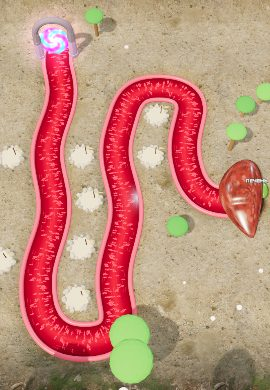
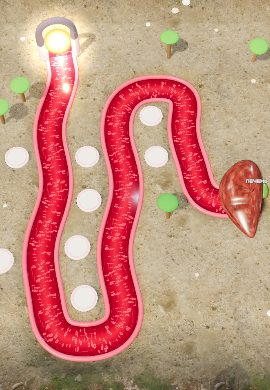
Карта: островки с органами и сосуд, системы органов; мягкие фоновые звуки; постаменты без флажков; ровный свет портала

diff --git a/index.html b/index.html
@@ -218,7 +218,7 @@ body {
 .tog input:checked + i { background: var(--blood); }
 .tog input:checked + i::after { transform: translateX(20px); }
 .tog input:focus-visible + i { outline: 2px solid var(--gold); outline-offset: 2px; }
-#mapScreen { padding: 0; display: flex; flex-direction: column; place-items: stretch; background: #e6cf9f; -webkit-backdrop-filter: none; backdrop-filter: none; overflow: hidden; }
+#mapScreen { padding: 0; display: flex; flex-direction: column; place-items: stretch; background: #14061a; -webkit-backdrop-filter: none; backdrop-filter: none; overflow: hidden; }
 #mapScreen[hidden] { display: none; }
 .maptop { display: flex; align-items: center; gap: 10px; padding: 10px 12px; background: linear-gradient(#3a2414, #2a180c); color: #fff3d8; box-shadow: 0 4px 14px #0006; z-index: 2; }
 .maptop b { font: 700 16px var(--display); flex: 1; }
@@ -229,11 +229,13 @@ body {
 .mnode .pulse { animation: mpulse 1.6s ease-out infinite; transform-origin: center; transform-box: fill-box; }
 @keyframes mpulse { 0% { opacity: .9; transform: scale(1); } 100% { opacity: 0; transform: scale(1.7); } }
 .mnode .bob { animation: mbob 1s ease-in-out infinite alternate; }
+.flow { animation: mflow 1.2s linear infinite; }
+@keyframes mflow { to { stroke-dashoffset: -18; } }
 @keyframes mbob { to { transform: translateY(-6px); } }
 #levelPop { position: absolute; left: 10px; right: 10px; bottom: calc(10px + env(safe-area-inset-bottom, 0px)); background: #fff8ea; color: #3a2414; border-radius: 18px; padding: 16px; box-shadow: 0 16px 50px #0008; display: flex; flex-direction: column; gap: 10px; border: 3px solid #8a5a2e; }
 #levelPop[hidden] { display: none; }
 #levelPop h2 { margin: 0; font: 900 22px var(--display); color: #3a2414; }
-#levelPop .reg { font: 700 20px 'Caveat', cursive; color: #8a5a2e; }
+#levelPop .reg { font: 600 14px var(--body); color: #8a5a2e; }
 #levelPop p { margin: 0; color: #6a4a2e; font-size: 13.5px; }
 #levelPop .st { font-size: 26px; letter-spacing: 4px; color: #f2a81d; }
 #levelPop .st .off { color: #d8c8a8; }
@@ -350,7 +352,7 @@ body {
       </div>
       <button class="btn big" data-look="menu">Фон и звуки</button>
       <button class="btn" data-go="howto">Как играть</button>
-      <p class="ver">Версия 0.11 · прототип</p>
+      <p class="ver">Версия 0.12 · прототип</p>
     </div>
   </div>
 
@@ -837,8 +839,14 @@ const AU = {
       if (this.ambId !== id) return;
       const s = this.ctx.createBufferSource(), g = this.ctx.createGain();
       s.buffer = buf; s.loop = true; s.loopStart = .06; s.loopEnd = buf.duration - .02;
-      g.gain.value = 0; g.gain.setTargetAtTime(1, this.ctx.currentTime, .4);
-      s.connect(g); g.connect(this.ambBus()); s.start(0, .06);
+      g.gain.value = 0;
+      // приглушаем верхние частоты и громкость: звук должен быть мягким, не резать слух
+      const soft = this.ctx.createBiquadFilter(), shelf = this.ctx.createBiquadFilter();
+      soft.type = 'lowpass'; soft.frequency.value = ({ rain: 1700, forest: 2200, river: 1100, wind: 700, birds: 3200, sea: 900, crickets: 4200, cave: 2000, under: 600, bubbles: 1500 })[id] || 1500; soft.Q.value = .5;
+      shelf.type = 'highshelf'; shelf.frequency.value = 800; shelf.gain.value = -6;
+      const vol = ({ rain: .7, forest: .8, river: .6, wind: .65, birds: .55, sea: .7, crickets: .35, cave: .6, under: .8, bubbles: .5 })[id] || .6;
+      g.gain.setTargetAtTime(vol, this.ctx.currentTime, 1.2);
+      s.connect(soft); soft.connect(shelf); shelf.connect(g); g.connect(this.ambBus()); s.start(0, .06);
       this.ambSrc = { s, g };
     };
     if (this.ambBufs[id]) return start(this.ambBufs[id]);
@@ -1192,7 +1200,7 @@ function applyTheme(i, rebuild = true) {
   hemi.color.set(TH.hemi[0]); hemi.groundColor.set(TH.hemi[1]); hemi.intensity = TH.hemi[2];
   sun.color.set(TH.sun[0]); sun.intensity = TH.sun[1]; rim.color.set(TH.rim[0]); rim.intensity = TH.rim[1];
   warm.color.set(TH.rim[0]); warm.intensity = TH.lava ? .8 : .15; renderer.toneMappingExposure = TH.exp;
-  padMat.color.set(TH.soil || '#8a6a4a'); padRimMat.color.set(TH.rim2); padRimMat.emissive.set(TH.rim2);
+  padMat.color.set('#ece6de').lerp(new T.Color(TH.soil || '#8a6a4a'), .25); padRimMat.color.set(TH.rim2); padRimMat.emissive.set(TH.rim2);
   drift.forEach((m, k) => { m.material.color.set(TH.motes[k % TH.motes.length]); m.visible = k < 44 * (TH.moteA > .4 ? 1 : .5); });
   // заранее подгружаем текстуры этой темы
   tex(TH.floor); tex(TH.floor, true); tex(TH.hills);
@@ -1253,44 +1261,48 @@ const portal = new T.Group();
 {
   // Ворота из камня с аркой, внутри — светящаяся закрученная мембрана; микробы выходят из неё
   const stone = new T.MeshStandardMaterial({ color: '#8a7a8a', roughness: .7, flatShading: true });
-  const trim = new T.MeshStandardMaterial({ color: '#c8a0ff', emissive: '#8a4aff', emissiveIntensity: .9, roughness: .3 });
+  const trim = new T.MeshStandardMaterial({ color: '#ffe8b8', emissive: '#ffb050', emissiveIntensity: .8, roughness: .3 });
   const pill = (z) => { const m = new T.Mesh(new T.CylinderGeometry(.11, .14, 1.05, 8), stone); m.position.set(0, .52, z); m.castShadow = true; portal.add(m);
     const cap = new T.Mesh(new T.CylinderGeometry(.16, .16, .08, 8), stone); cap.position.set(0, .06, z); portal.add(cap); };
   pill(-.52); pill(.52);
   const arch = new T.Mesh(new T.TorusGeometry(.52, .1, 10, 32, Math.PI), stone); arch.rotation.y = Math.PI / 2; arch.position.y = 1.05; arch.castShadow = true; portal.add(arch);
   const band = new T.Mesh(new T.TorusGeometry(.43, .025, 8, 40, Math.PI), trim); band.rotation.y = Math.PI / 2; band.position.y = 1.05; portal.add(band);
   for (const z of [-.43, .43]) { const b = new T.Mesh(new T.CylinderGeometry(.025, .025, .98, 6), trim); b.position.set(0, .56, z); portal.add(b); }
+  // проём: ровный яркий свет — белый в глубине, тёплый к краям, без вращения и пульса
   const mat = new T.ShaderMaterial({
-    uniforms: { t: { value: 0 }, c1: { value: new T.Color('#ff4ad8') }, c2: { value: new T.Color('#5ad8ff') } },
+    uniforms: { c1: { value: new T.Color('#fff6e0') }, c2: { value: new T.Color('#ffb070') } },
     vertexShader: 'varying vec2 vU; void main(){ vU = uv; gl_Position = projectionMatrix * modelViewMatrix * vec4(position,1.); }',
-    fragmentShader: `uniform float t; uniform vec3 c1; uniform vec3 c2; varying vec2 vU;
-      void main(){ vec2 p = (vU - .5) * 2.; float r = length(p); float a = atan(p.y, p.x);
-        float sw = sin(a * 3. + r * 9. - t * 3.5) * .5 + .5; float sw2 = sin(a * 5. - r * 14. + t * 2.) * .5 + .5;
-        vec3 col = mix(c1, c2, sw) + vec3(1.) * pow(1. - r, 3.) * .9 + sw2 * .15;
-        float al = smoothstep(1., .8, r) * (.75 + .25 * sw) + smoothstep(.95, .85, r) * smoothstep(.75, .9, r) * .6;
-        gl_FragColor = vec4(col * 1.25, al); }`,
-    transparent: true, depthWrite: false, side: T.DoubleSide
+    fragmentShader: `uniform vec3 c1; uniform vec3 c2; varying vec2 vU;
+      void main(){ vec2 p = (vU - .5) * 2.; float r = length(p);
+        vec3 col = mix(c1 * 1.6, c2, smoothstep(0., .95, r));
+        float al = smoothstep(1., .82, r);
+        gl_FragColor = vec4(col, al); }`,
+    transparent: true, depthWrite: false, side: T.DoubleSide, toneMapped: false
   });
   const door = new T.Mesh(new T.CircleGeometry(.47, 48), mat); door.scale.y = 1.35; door.position.y = .66; door.rotation.y = Math.PI / 2; portal.add(door);
-  const glow = new T.Sprite(new T.SpriteMaterial({ map: glowTex, color: '#c86aff', blending: T.AdditiveBlending, depthWrite: false, opacity: .55 }));
-  glow.scale.set(2.4, 2.4, 1); glow.position.y = .7; portal.add(glow);
-  const motes = [];
-  for (let i = 0; i < 10; i++) { const m = new T.Sprite(new T.SpriteMaterial({ map: glowTex, color: i % 2 ? '#ff9af0' : '#9fefff', blending: T.AdditiveBlending, depthWrite: false })); m.scale.setScalar(.12); portal.add(m); motes.push(m); }
-  portal.userData = { glow, mat, motes };
+  const glow = new T.Sprite(new T.SpriteMaterial({ map: glowTex, color: '#ffd8a0', blending: T.AdditiveBlending, depthWrite: false, opacity: .7 }));
+  glow.scale.set(2.6, 2.6, 1); glow.position.set(.15, .7, 0); portal.add(glow);
+  // луч света падает из ворот вперёд, на сосуд
+  const beamTex = canvasTex(64, 256, (g, w, h) => { const gr = g.createLinearGradient(0, 0, 0, h); gr.addColorStop(0, 'rgba(255,240,210,.9)'); gr.addColorStop(1, 'rgba(255,200,140,0)'); g.fillStyle = gr; g.fillRect(0, 0, w, h); const sg = g.createLinearGradient(0, 0, w, 0); sg.addColorStop(0, 'rgba(0,0,0,1)'); sg.addColorStop(.5, 'rgba(0,0,0,0)'); sg.addColorStop(1, 'rgba(0,0,0,1)'); g.globalCompositeOperation = 'destination-out'; g.fillStyle = sg; g.fillRect(0, 0, w, h); });
+  beamTex.encoding = T.LinearEncoding;
+  const beam = new T.Mesh(new T.PlaneGeometry(1.1, 2.6), new T.MeshBasicMaterial({ map: beamTex, transparent: true, depthWrite: false, blending: T.AdditiveBlending, opacity: .55, toneMapped: false }));
+  beam.rotation.x = -Math.PI / 2; beam.rotation.z = Math.PI / 2; beam.position.set(1.35, .03, 0); portal.add(beam);
+  const lamp = new T.PointLight('#ffd8a8', 1.4, 4.5, 2); lamp.position.set(.5, .8, 0); portal.add(lamp);
+  portal.userData = { glow, mat };
   scene.add(portal);
 }
 const organ = new T.Group();
 organ.rotation.y = Math.PI / 2; scene.add(organ);
 // Уровни-органы. theme — фон уровня, diff — во сколько раз крепче микробы
 const LEVELS = [
-  { id: 'liver', organ: 'Печень', region: 'Печёночный лес', theme: 1, diff: 1 },
-  { id: 'lungs', organ: 'Лёгкие', region: 'Лёгочные снега', theme: 3, diff: 1.25 },
-  { id: 'heart', organ: 'Сердце', region: 'Сердечный каньон', theme: 4, diff: 1.55 },
-  { id: 'kidney', organ: 'Почки', region: 'Почечный берег', theme: 8, diff: 1.9 },
-  { id: 'stomach', organ: 'Желудок', region: 'Желудочная пустыня', theme: 9, diff: 2.3 },
-  { id: 'spleen', organ: 'Селезёнка', region: 'Селезёночная мостовая', theme: 5, diff: 2.8 },
-  { id: 'eye', organ: 'Глаз', region: 'Глазной дворец', theme: 6, diff: 3.4 },
-  { id: 'brain', organ: 'Мозг', region: 'Мозговой вулкан', theme: 7, diff: 4.2 }
+  { id: 'liver', organ: 'Печень', region: 'Пищеварительная система', theme: 1, diff: 1 },
+  { id: 'lungs', organ: 'Лёгкие', region: 'Дыхательная система', theme: 3, diff: 1.25 },
+  { id: 'heart', organ: 'Сердце', region: 'Сердечно-сосудистая система', theme: 4, diff: 1.55 },
+  { id: 'kidney', organ: 'Почки', region: 'Мочевыделительная система', theme: 8, diff: 1.9 },
+  { id: 'stomach', organ: 'Желудок', region: 'Пищеварительная система', theme: 9, diff: 2.3 },
+  { id: 'spleen', organ: 'Селезёнка', region: 'Иммунная система', theme: 5, diff: 2.8 },
+  { id: 'eye', organ: 'Глаз', region: 'Органы чувств', theme: 6, diff: 3.4 },
+  { id: 'brain', organ: 'Мозг', region: 'Нервная система', theme: 7, diff: 4.2 }
 ];
 function organTex(base, spots) {
   return canvasTex(512, 512, (g, W, H) => {
@@ -1357,14 +1369,14 @@ function setOrgan(lv) {
 setOrgan(LEVELS[0]);
 function CYL_HI() { return new T.CylinderGeometry(1, 1, 1, 16); }
 
-const padGeo = new T.CylinderGeometry(.4, .42, .06, 32);
+const padGeo = new T.LatheGeometry([[0, 0], [.44, 0], [.46, .03], [.45, .07], [.41, .1], [.34, .1], [.31, .075], [0, .075]].map(([x, y]) => new T.Vector2(x, y)), 48);   // невысокий постамент с чашей
 const stoneGeo = new T.DodecahedronGeometry(1, 0), stoneMat = new T.MeshStandardMaterial({ roughness: .85, flatShading: true });
 const poleGeo = new T.CylinderGeometry(.015, .015, .56, 6), poleMat = new T.MeshStandardMaterial({ color: '#6a4a2e', roughness: .8 });
 const flagGeo = (() => { const g = new T.BufferGeometry(); g.setAttribute('position', new T.Float32BufferAttribute([0, .1, 0, 0, -.1, 0, .24, 0, 0], 3)); g.computeVertexNormals(); return g; })();
 const padMat = new T.MeshPhysicalMaterial({ color: '#e2a6b6', roughness: .32, metalness: 0, clearcoat: 1, clearcoatRoughness: .2, emissive: '#3a0a18', emissiveIntensity: .35 });
-const padRimGeo = new T.TorusGeometry(.4, .035, 8, 40);
+const padRimGeo = new T.TorusGeometry(.375, .022, 8, 48);
 const padRimMat = new T.MeshStandardMaterial({ color: '#bff6ff', emissive: '#5ad8ff', emissiveIntensity: .6, roughness: .3 });
-const ringGeo = new T.RingGeometry(.4, .52, 40);
+const ringGeo = new T.RingGeometry(.47, .56, 48);
 
 function updateBackdrop() {
   const b = TER.box, c = b.getCenter(new T.Vector3()), sz = b.getSize(new T.Vector3());
@@ -1484,25 +1496,14 @@ function buildBoard(L) {
     if (Math.hypot(cd.x - P0.x, cd.z - P0.z) < 1.8) continue;
     if (chosen.every(o => Math.hypot(o.x - cd.x, o.z - cd.z) >= 1.5)) chosen.push(cd);
   }
-  const stones = new T.InstancedMesh(stoneGeo, stoneMat, chosen.length * 11), dm = new T.Object3D(), sc2 = new T.Color();
   chosen.forEach((cd, i) => {
     const cp = new T.Vector3(cd.x, 0, cd.z);
-    const m = new T.Mesh(padGeo, padMat); m.position.set(cp.x, .03, cp.z); m.receiveShadow = true; board.add(m);
-    for (let k = 0; k < 11; k++) {
-      const a = k / 11 * Math.PI * 2 + hash2(i, k) * .3, r = .42;
-      dm.position.set(cp.x + Math.cos(a) * r, .06, cp.z + Math.sin(a) * r); dm.rotation.set(hash2(k, i) * 3, a, hash2(i + 3, k) * 3);
-      const s = .07 + hash2(i * 7, k) * .04; dm.scale.set(s * 1.3, s, s); dm.updateMatrix(); stones.setMatrixAt(i * 11 + k, dm.matrix);
-      stones.setColorAt(i * 11 + k, sc2.set(TH.stone || '#b8aa9a').multiplyScalar(.8 + hash2(k, i * 5) * .35));
-    }
-    const flag = new T.Group();
-    const pole = new T.Mesh(poleGeo, poleMat); pole.position.y = .28; flag.add(pole);
-    const cloth = new T.Mesh(flagGeo, new T.MeshStandardMaterial({ color: TH.rim2, side: T.DoubleSide, roughness: .6 })); cloth.position.set(.12, .48, 0); flag.add(cloth);
-    flag.position.set(cp.x + .18, 0, cp.z - .1); flag.castShadow = true; board.add(flag);
+    const m = new T.Mesh(padGeo, padMat); m.position.set(cp.x, 0, cp.z); m.receiveShadow = true; m.castShadow = true; board.add(m);
+    const rim = new T.Mesh(padRimGeo, padRimMat); rim.rotation.x = Math.PI / 2; rim.position.set(cp.x, .1, cp.z); board.add(rim);
     const hl = new T.Mesh(ringGeo, new T.MeshBasicMaterial({ color: '#7be0b0', transparent: true, opacity: 0, depthWrite: false }));
-    hl.rotation.x = -Math.PI / 2; hl.position.set(cp.x, .1, cp.z); board.add(hl);
-    pads.set('p' + i, { pos: cp, mesh: m, hl, flag, unit: null });
+    hl.rotation.x = -Math.PI / 2; hl.position.set(cp.x, .12, cp.z); board.add(hl);
+    pads.set('p' + i, { pos: cp, mesh: m, hl, unit: null });
   });
-  stones.castShadow = true; stones.receiveShadow = true; board.add(stones);
   buildTerrain();
 }
 const stageAspect = () => Math.max(.3, stage.clientWidth / Math.max(1, stage.clientHeight));
@@ -1966,9 +1967,6 @@ function update(dt) {
   const now = performance.now() / 1000;
   bloodTex.offset.y -= dt * .45;
   animateBackdrop(dt, now);
-  portal.userData.glow.material.opacity = .45 + Math.sin(now * 3) * .15;
-  portal.userData.mat.uniforms.t.value = now;
-  portal.userData.motes.forEach((m, i) => { const a = now * 1.6 + i / 10 * Math.PI * 2; m.position.set(Math.sin(a * .7) * .12, .66 + Math.sin(a) * .62, Math.cos(a) * .52); });
   organ.scale.setScalar(1 + Math.sin(now * 2.2) * .015);
   organ.userData.mat.emissiveIntensity = Math.max(1, organ.userData.mat.emissiveIntensity - dt * 6);
 
@@ -2408,8 +2406,9 @@ const store = {
   get(k, d) { try { return Object.assign({}, d, JSON.parse(localStorage.getItem(k)) || {}); } catch (e) { return Object.assign({}, d); } },
   set(k, v) { try { localStorage.setItem(k, JSON.stringify(v)); } catch (e) {} }
 };
-const SET = store.get('immuneSettings', { sound: true, vol: 80, vibro: true, dmg: true, quality: 'high', theme: 0, amb: 'off', ambVol: 50, sfx: 'real' });
+const SET = store.get('immuneSettings', { sound: true, vol: 80, vibro: true, dmg: true, quality: 'high', theme: 0, amb: 'off', ambVol: 35, sfx: 'real' });
 if ((SET.ver || 0) < 8) { SET.theme = -1; SET.ver = 8; }
+if ((SET.ver || 0) < 9) { SET.ambVol = Math.min(SET.ambVol, 35); SET.ver = 9; }
 if ((SET.ver || 0) < 7) { SET.sfx = 'real'; SET.theme = 0; SET.amb = ({ surf: 'sea', brook: 'river', storm: 'rain', fire: 'off' })[SET.amb] || SET.amb; SET.ver = 7; }
 const PROF = store.get('immuneProfile', { name: 'Игрок', avatar: 'neu', games: 0, kills: 0, wins: 0, liverStars: 0, lv: {} });
 PROF.lv ||= {}; if (PROF.liverStars && !PROF.lv.liver) PROF.lv.liver = PROF.liverStars;
@@ -2532,75 +2531,85 @@ $('lookDone').onclick = () => { AU.play('ui'); closeLook(); };
 document.addEventListener('click', (e) => { const b = e.target.closest('[data-look]'); if (b) openLook(b.dataset.look); });
 
 /* ---------- Карта организма: выбор уровня ---------- */
-const ORGAN_ICON = {
-  liver: '<path d="M2.5 10c3-4.5 11-5.5 18-3 1.2.5 1.4 1.8.6 2.7C18 13 13 17 7 17c-3.3 0-5.3-3-4.5-7z" fill="#fff"/>',
-  lungs: '<path d="M12 2.5v7" stroke="#fff" stroke-width="2.2" stroke-linecap="round"/><path d="M10.5 9c-1.5-1.8-4.5-2.4-6.3.6-2 3.3-2 8.4.3 10.4 2 1.4 5.5.5 6-2.6zM13.5 9c1.5-1.8 4.5-2.4 6.3.6 2 3.3 2 8.4-.3 10.4-2 1.4-5.5.5-6-2.6z" fill="#fff"/>',
-  heart: '<path d="M12 21s-8-5-8-11a4.4 4.4 0 0 1 8-2.6A4.4 4.4 0 0 1 20 10c0 6-8 11-8 11z" fill="#fff"/>',
-  kidney: '<path d="M14.5 3.5c4.5.8 7 6.2 4.6 11.6-2.2 5-7.4 6.1-9.6 3.4-1.5-1.9.8-3.6-.2-5.6-1-1.8-4.2-2.6-3.6-5.6.7-3.3 4.6-4.4 8.8-3.8z" fill="#fff"/>',
-  stomach: '<path d="M9 2.5v4.5c0 2.5-3.5 4-3.5 8.5 0 4.2 3.2 6.5 7.2 6.5 4.3 0 7.3-3 7.3-7 0-3.8-3.2-5.6-6-4.6-2.4.9-2.6 3.2-2.6 3.2" fill="none" stroke="#fff" stroke-width="3.2" stroke-linecap="round"/>',
-  spleen: '<path d="M6.5 19c-2.6-5.3.6-12.6 7-14.8 3.1-1 6.4-.3 6.4 1.9-4.2 1.1-7.3 5.4-7.3 9.6 0 3 2 4.3 1 5.4-2.3 1.4-5.9 1-7.1-2.1z" fill="#fff"/>',
-  eye: '<path d="M1.5 12s4-7 10.5-7 10.5 7 10.5 7-4 7-10.5 7S1.5 12 1.5 12z" fill="#fff"/><circle cx="12" cy="12" r="3.6" fill="#3a7ad8"/><circle cx="12" cy="12" r="1.6" fill="#0a0a12"/>',
-  brain: '<path d="M8.3 4.2A3.3 3.3 0 0 0 4.7 7.6 3.3 3.3 0 0 0 3.6 13a3.3 3.3 0 0 0 3.2 4.4 3.3 3.3 0 0 0 5.2 1.4 3.3 3.3 0 0 0 5.2-1.4 3.3 3.3 0 0 0 3.2-4.4 3.3 3.3 0 0 0-1.1-5.4 3.3 3.3 0 0 0-3.6-3.4 3.3 3.3 0 0 0-4.7 0 3.3 3.3 0 0 0-4.7 0z" fill="#fff"/><path d="M12 4.5v14" stroke="#e8a0a8" stroke-width="1.6"/>'
+// Рисунки органов в плоском стиле с объёмом (viewBox 100×100)
+const ORGAN_ART = {
+  liver: `<path d="M8 54c3-19 27-31 54-29 15 1 28 6 30 15 1 7-4 11-11 15-15 9-32 19-51 19C15 74 6 66 8 54z" fill="#8e3324"/>
+    <path d="M46 29c15-2 31 0 41 7 3 2 3 7-1 10-11 8-25 13-38 13" fill="#b4513d"/><path d="M14 47c8-8 21-13 34-13" stroke="#6e2216" stroke-width="2.5" fill="none" stroke-linecap="round"/>
+    <ellipse cx="57" cy="66" rx="8" ry="6" fill="#5aa042"/><ellipse cx="55" cy="64" rx="3" ry="2" fill="#a8e090"/>
+    <path d="M22 41c9-7 22-10 33-10" stroke="#fff" stroke-opacity=".35" stroke-width="4" stroke-linecap="round" fill="none"/>`,
+  lungs: `<rect x="46" y="6" width="8" height="28" rx="4" fill="#f4d6d6"/><path d="M50 30l-10 12M50 30l10 12" stroke="#f4d6d6" stroke-width="6" stroke-linecap="round"/>
+    <path d="M42 30c-9-7-25-3-31 13-6 17-6 36 4 42 11 6 26 0 28-13z" fill="#e8798c"/><path d="M58 30c9-7 25-3 31 13 6 17 6 36-4 42-11 6-26 0-28-13z" fill="#f08c9e"/>
+    <path d="M40 44l-12 10m12 2l-14 12M60 44l12 10m-12 2l14 12" stroke="#fbd2da" stroke-width="2.5" stroke-linecap="round"/>
+    <path d="M18 46c3-8 9-12 15-13" stroke="#fff" stroke-opacity=".45" stroke-width="3.5" stroke-linecap="round" fill="none"/>`,
+  heart: `<path d="M34 18v12M42 14v14" stroke="#4a68d8" stroke-width="7" stroke-linecap="round"/><path d="M48 28c0-12 9-19 18-16 7 2 9 9 6 14" stroke="#e44a5a" stroke-width="10" fill="none" stroke-linecap="round"/>
+    <path d="M50 90C29 75 12 58 14 39c2-15 17-22 30-15 3 2 5 4 6 7 1-3 3-5 6-7 13-7 28 0 30 15 2 19-15 36-36 51z" fill="#c8202f"/>
+    <path d="M50 90c21-15 38-32 36-51-1-9-7-15-14-17 4 4 6 10 5 17-2 19-15 35-27 51z" fill="#9c1624"/><path d="M24 36c3-6 9-8 14-6" stroke="#fff" stroke-opacity=".5" stroke-width="4" stroke-linecap="round" fill="none"/>`,
+  kidney: `${[0, 1].map(k => `<g transform="${k ? 'translate(100 0) scale(-1 1)' : ''}"><path d="M30 16c-13 2-20 17-18 34 2 18 13 29 24 27 9-2 7-11 2-15-5-6-5-11 0-16 6-6 7-13 4-20-2-7-6-10-12-10z" fill="#a52c36"/>
+    <path d="M38 46c6 2 10 6 12 14 1 6 2 14 2 30" stroke="#e8c070" stroke-width="3.5" fill="none" stroke-linecap="round"/><path d="M18 34c2-7 6-12 11-14" stroke="#fff" stroke-opacity=".4" stroke-width="3.5" stroke-linecap="round" fill="none"/></g>`).join('')}`,
+  stomach: `<path d="M36 6c0 9 0 15-6 21-8 9-15 19-13 34 2 19 19 29 38 27 21-2 33-17 31-34-2-15-15-21-27-17-9 3-11 10-13 15" fill="none" stroke="#c96a78" stroke-width="20" stroke-linecap="round"/>
+    <path d="M36 6c0 9 0 15-6 21-8 9-15 19-13 34 2 19 19 29 38 27 21-2 33-17 31-34-2-15-15-21-27-17-9 3-11 10-13 15" fill="none" stroke="#ec98a4" stroke-width="13" stroke-linecap="round"/>
+    <path d="M28 54c6 4 14 6 22 6M30 66c8 3 16 4 26 3" stroke="#d07888" stroke-width="2" fill="none" stroke-linecap="round"/>`,
+  spleen: `<path d="M18 72c-9-21 4-48 31-57 15-4 30 0 30 9-17 4-29 19-29 36 0 12 8 17 4 21-11 7-30 5-36-9z" fill="#7a2a5e"/>
+    <path d="M30 34c6-9 14-14 22-16" stroke="#fff" stroke-opacity=".4" stroke-width="4" stroke-linecap="round" fill="none"/>`,
+  eye: `<path d="M6 50s19-28 44-28 44 28 44 28-19 28-44 28S6 50 6 50z" fill="#fbf8f4" stroke="#c8b0a8" stroke-width="2.5"/>
+    <path d="M14 46l10 3M80 44l-9 4M18 58l9-2" stroke="#e05a5a" stroke-width="1.6" stroke-linecap="round"/>
+    <circle cx="50" cy="50" r="17" fill="#2f74d0"/><circle cx="50" cy="50" r="12" fill="#5ab0ff" opacity=".5"/><circle cx="50" cy="50" r="7.5" fill="#0c0c16"/><circle cx="44" cy="44" r="4" fill="#fff"/>`,
+  brain: `<path d="M27 25c-10 0-16 8-14 16-7 4-7 15 0 19 0 10 10 16 18 14 4 7 13 9 19 4 6 5 15 3 19-4 8 2 18-4 18-14 7-4 7-15 0-19 2-8-4-16-14-16-4-7-14-9-20-2-6-7-16-5-20 2z" fill="#ef9cad"/>
+    <path d="M50 22v56" stroke="#c86880" stroke-width="2.5"/><path d="M22 40c6-2 10 2 14 0m-18 14c6 0 10 4 16 2m-10 12c4-2 8 0 12-2M64 38c6 2 10-2 14 0m-16 16c6 0 10-4 16-2m-16 12c4 2 8 0 12 2" stroke="#c86880" stroke-width="2.2" fill="none" stroke-linecap="round"/>
+    <path d="M24 30c4-4 9-5 14-4" stroke="#fff" stroke-opacity=".5" stroke-width="3.5" stroke-linecap="round" fill="none"/>`
 };
+const ISLE = ['#9ad57a', '#8ed0f0', '#f4a07a', '#7ad0d8', '#f4d080', '#a8c48a', '#efe2c8', '#9a7a74'];   // верх островка в цвете фона уровня
 const LOCK_ICON = '<path d="M7.5 11V8a4.5 4.5 0 0 1 9 0v3" fill="none" stroke="#fff" stroke-width="2.4"/><rect x="5.5" y="11" width="13" height="10" rx="2" fill="#fff"/>';
-const REGION = [
-  { fill: '#8cc56a', deco: 'tree' }, { fill: '#e8f0f8', deco: 'peak' }, { fill: '#e89a5a', deco: 'mesa' }, { fill: '#7cc0d8', deco: 'wave' },
-  { fill: '#f0d08a', deco: 'cactus' }, { fill: '#a8b89a', deco: 'wall' }, { fill: '#f4ece0', deco: 'column' }, { fill: '#6a4a44', deco: 'volcano' }
-];
-const ACCENT = ['#3e9a3a', '#4aa8e8', '#e0602a', '#2a9ab8', '#d8a03a', '#6a8a5a', '#c8a050', '#d8402a'];
 function isUnlocked(i) { return i === 0 || (PROF.lv[LEVELS[i - 1].id] || 0) > 0; }
 function drawMap() {
-  const W = 400, step = 185, H = LEVELS.length * step + 170;
-  const rnd = (() => { let a = 7; return () => (a = (a * 16807) % 2147483647) / 2147483647; })();
-  const XS = [118, 282, 150, 270, 112, 268, 146, 250];
-  const pts = LEVELS.map((l, i) => ({ x: XS[i], y: H - 120 - i * step }));
+  const W = 400, step = 210, H = (LEVELS.length - 1) * step + 300;
+  let seed = 11; const rnd = () => (seed = (seed * 16807) % 2147483647) / 2147483647;
+  const XS = [130, 270, 135, 268, 128, 272, 140, 260];
+  const pts = LEVELS.map((l, i) => ({ x: XS[i], y: H - 150 - i * step }));
   const cur = LEVELS.findIndex((l, i) => isUnlocked(i) && !PROF.lv[l.id]);
+  const done = (i) => (PROF.lv[LEVELS[i].id] || 0) > 0;
   let o = `<svg viewBox="0 0 ${W} ${H}" xmlns="http://www.w3.org/2000/svg">
   <defs>
-    <filter id="paper"><feTurbulence type="fractalNoise" baseFrequency=".9" numOctaves="3" seed="4"/><feColorMatrix values="0 0 0 0 .45  0 0 0 0 .3  0 0 0 0 .15  0 0 0 .18 0"/><feComposite in2="SourceGraphic" operator="in"/></filter>
-    <filter id="soft" x="-30%" y="-30%" width="160%" height="160%"><feGaussianBlur stdDeviation="9"/></filter>
-    <filter id="sh" x="-50%" y="-50%" width="200%" height="200%"><feDropShadow dx="0" dy="3" stdDeviation="3" flood-color="#000" flood-opacity=".45"/></filter>
-    <linearGradient id="bgg" x1="0" y1="0" x2="0" y2="1"><stop offset="0" stop-color="#e9d3a2"/><stop offset="1" stop-color="#dcbd84"/></linearGradient>
+    <radialGradient id="mbg" cx="50%" cy="40%" r="80%"><stop offset="0" stop-color="#4a1a3a"/><stop offset="1" stop-color="#14061a"/></radialGradient>
+    <filter id="blur6"><feGaussianBlur stdDeviation="6"/></filter><filter id="blur2"><feGaussianBlur stdDeviation="1.5"/></filter>
+    <filter id="sh" x="-40%" y="-40%" width="180%" height="180%"><feDropShadow dx="0" dy="6" stdDeviation="6" flood-color="#000" flood-opacity=".55"/></filter>
+    <filter id="gray"><feColorMatrix type="saturate" values=".15"/><feComponentTransfer><feFuncR type="linear" slope=".7"/><feFuncG type="linear" slope=".7"/><feFuncB type="linear" slope=".75"/></feComponentTransfer></filter>
+    <linearGradient id="side" x1="0" y1="0" x2="0" y2="1"><stop offset="0" stop-color="#000" stop-opacity=".05"/><stop offset="1" stop-color="#000" stop-opacity=".45"/></linearGradient>
   </defs>
-  <rect width="${W}" height="${H}" fill="url(#bgg)"/>`;
-  // области органов: мягкие пятна своего цвета с рисунками местности
+  <rect width="${W}" height="${H}" fill="url(#mbg)"/>`;
+  // фон: размытые клетки-«боке» и тонкие капилляры
+  for (let k = 0; k < 40; k++) { const r = 6 + rnd() * 26; o += `<circle cx="${(rnd() * W).toFixed(0)}" cy="${(rnd() * H).toFixed(0)}" r="${r.toFixed(0)}" fill="${['#ff6a9a', '#6ad8ff', '#ffb06a', '#b48aff'][k % 4]}" opacity="${(.06 + rnd() * .1).toFixed(2)}" filter="url(#blur6)"/>`; }
+  const vein = (x, y, a, w, d, col) => { if (d <= 0) return ''; let p = `M${x.toFixed(0)} ${y.toFixed(0)}`; for (let i = 0; i < 6; i++) { a += (rnd() - .5) * .7; x += Math.cos(a) * 14; y += Math.sin(a) * 14; p += `L${x.toFixed(0)} ${y.toFixed(0)}`; }
+    return `<path d="${p}" stroke="${col}" stroke-width="${w}" fill="none" stroke-linecap="round" opacity=".22"/>` + vein(x, y, a + .5, w * .7, d - 1, col) + (rnd() < .7 ? vein(x, y, a - .5, w * .7, d - 1, col) : ''); };
+  for (let k = 0; k < 14; k++) o += vein(rnd() * W, rnd() * H, rnd() * 7, 3, 4, k % 2 ? '#ff5a6a' : '#6a8aff');
+  // сосуд между органами (начинается с печени)
+  const seg = (a, b) => { const my = (a.y + b.y) / 2; return `M${a.x} ${a.y}C${a.x} ${my} ${b.x} ${my} ${b.x} ${b.y}`; };
+  for (let i = 1; i < pts.length; i++) {
+    const d = seg(pts[i - 1], pts[i]), open = isUnlocked(i);
+    o += `<path d="${d}" stroke="${open ? '#5a0a14' : '#3a2a34'}" stroke-width="20" fill="none" stroke-linecap="round"/>`;
+    o += `<path d="${d}" stroke="${open ? '#d42a3a' : '#5a4a54'}" stroke-width="13" fill="none" stroke-linecap="round"/>`;
+    if (open) o += `<path class="flow" d="${d}" stroke="#ff9aa8" stroke-width="5" fill="none" stroke-linecap="round" stroke-dasharray="4 14" opacity=".8"/>`;
+  }
+  // островки с органами
   LEVELS.forEach((l, i) => {
-    const R = REGION[i], c = pts[i], cx = c.x < 200 ? c.x + 70 : c.x - 70;
-    let d = ''; for (let k = 0; k <= 12; k++) { const a = k / 12 * Math.PI * 2, r = 120 + rnd() * 40; d += (k ? 'L' : 'M') + (cx + Math.cos(a) * r * 1.1).toFixed(0) + ' ' + (c.y + Math.sin(a) * r * .62).toFixed(0); }
-    o += `<path d="${d}Z" fill="${R.fill}" opacity=".85" filter="url(#soft)"/>`;
-    for (let k = 0; k < 9; k++) {
-      const x = cx + (rnd() - .5) * 250, y = c.y + (rnd() - .5) * 120;
-      if (Math.hypot(x - c.x, y - c.y) < 60) continue;
-      const s = .8 + rnd() * .5;
-      o += `<g transform="translate(${x.toFixed(0)} ${y.toFixed(0)}) scale(${s.toFixed(2)})">` + ({
-        tree: '<rect x="-2" y="2" width="4" height="10" fill="#6a4a2e"/><circle cy="-2" r="10" fill="#4a9a3a"/><circle cx="-5" cy="-6" r="4" fill="#7ac85a" opacity=".7"/>',
-        peak: '<path d="M-16 10 0-14 16 10z" fill="#9ab0c8"/><path d="M-6 -5 0-14 6-5 2-3-2-6z" fill="#fff"/>',
-        mesa: '<path d="M-16 10-10-6h20l6 16z" fill="#c05a2a"/><path d="M-10-6h20l-2 4h-16z" fill="#e88a4a"/>',
-        wave: '<path d="M-14 0q4-5 7 0t7 0 7 0" fill="none" stroke="#2a7aa8" stroke-width="2.4" stroke-linecap="round"/>',
-        cactus: '<path d="M-2 12V-10h4v22zM-2 0h-5v-6M2 2h5v-6" fill="none" stroke="#4a8a3e" stroke-width="3.4" stroke-linecap="round" stroke-linejoin="round"/>',
-        wall: '<path d="M-14 8h28V-2h-4v-4h-4v4h-4v-4h-4v4h-4v-4h-4v4h-4z" fill="#8a8a7a"/>',
-        column: '<rect x="-4" y="-10" width="8" height="20" fill="#fff"/><rect x="-7" y="-13" width="14" height="4" fill="#d8b46a"/><rect x="-7" y="9" width="14" height="4" fill="#d8b46a"/>',
-        volcano: '<path d="M-18 12-6-10h12l12 22z" fill="#3a2a26"/><path d="M-6-10h12l-3 6-3-2-3 3z" fill="#ff7a1a"/>'
-      })[R.deco] + '</g>';
-    }
-    const lx = c.x < 200 ? 285 : 115, ly = c.y + 8;
-    o += `<text x="${lx}" y="${ly}" text-anchor="middle" font-family="Caveat, cursive" font-weight="700" font-size="25" fill="#5a3a1e" opacity=".85" transform="rotate(${(rnd() * 8 - 4).toFixed(1)} ${lx} ${ly})">${l.region.split(' ').map((w, k) => `<tspan x="${lx}" dy="${k ? 24 : 0}">${w}</tspan>`).join('')}</text>`;
-  });
-  o += `<rect width="${W}" height="${H}" filter="url(#paper)" opacity=".9"/>`;
-  // тропа между органами
-  let path = `M${pts[0].x} ${pts[0].y + 90}L${pts[0].x} ${pts[0].y}`;
-  for (let i = 1; i < pts.length; i++) { const a = pts[i - 1], b = pts[i], my = (a.y + b.y) / 2; path += `C${a.x} ${my} ${b.x} ${my} ${b.x} ${b.y}`; }
-  o += `<path d="${path}" fill="none" stroke="#6a4424" stroke-width="5" stroke-dasharray="11 9" stroke-linecap="round" opacity=".8"/>`;
-  // точки уровней
-  LEVELS.forEach((l, i) => {
-    const c = pts[i], open = isUnlocked(i), st = PROF.lv[l.id] || 0, col = open ? ACCENT[i] : '#9a8f84';
-    o += `<g class="mnode" data-lv="${i}" filter="url(#sh)">`;
-    if (i === cur) o += `<circle class="pulse" cx="${c.x}" cy="${c.y}" r="36" fill="none" stroke="#fff6c8" stroke-width="4"/>`;
-    o += `<circle cx="${c.x}" cy="${c.y}" r="34" fill="#fff8e4"/><circle cx="${c.x}" cy="${c.y}" r="29" fill="${col}"/><circle cx="${c.x - 8}" cy="${c.y - 10}" r="12" fill="#fff" opacity=".22"/>`;
-    o += `<g transform="translate(${c.x - 17} ${c.y - 17}) scale(1.42)">${open ? ORGAN_ICON[l.id] : LOCK_ICON}</g>`;
-    for (let k = 0; k < 3; k++) { const sx = c.x - 24 + k * 24, sy = c.y - 50 - (k === 1 ? 6 : 0); o += `<path transform="translate(${sx} ${sy}) scale(.9)" d="M0-11 3.2-3.6 11-3.4 4.9 1.6 7 9.2 0 4.8-7 9.2-4.9 1.6-11-3.4-3.2-3.6z" fill="${k < st ? '#ffc61a' : '#d8c8a8'}" stroke="#6a4424" stroke-width="1.6"/>`; }
-    o += `<rect x="${c.x - 52}" y="${c.y + 40}" width="104" height="26" rx="13" fill="#3a2414" opacity=".88"/><text x="${c.x}" y="${c.y + 58}" text-anchor="middle" font-family="Unbounded, sans-serif" font-weight="700" font-size="13" fill="#fff3d8">${l.organ}</text>`;
-    if (i === cur) o += `<g class="bob"><path d="M${c.x - 10} ${c.y - 82}h20l-10 13z" fill="#ffc61a" stroke="#6a4424" stroke-width="2"/></g>`;
+    const c = pts[i], open = isUnlocked(i), st = PROF.lv[l.id] || 0, top = ISLE[i];
+    const ip = []; for (let k = 0; k < 14; k++) { const a = k / 14 * Math.PI * 2, r = 1 + (rnd() - .5) * .12; ip.push([c.x + Math.cos(a) * 78 * r, c.y + 24 + Math.sin(a) * 34 * r]); }
+    const mp = (A, B) => [(A[0] + B[0]) / 2, (A[1] + B[1]) / 2];   // плавный контур: кривые через середины сторон
+    let isl = 'M' + mp(ip[13], ip[0]).map(v => v.toFixed(1)).join(' ');
+    for (let k = 0; k < 14; k++) { const P = ip[k], N = mp(P, ip[(k + 1) % 14]); isl += `Q${P[0].toFixed(1)} ${P[1].toFixed(1)} ${N[0].toFixed(1)} ${N[1].toFixed(1)}`; }
+    o += `<g class="mnode" data-lv="${i}"${open ? '' : ' filter="url(#gray)"'}>`;
+    if (i === cur) o += `<ellipse class="pulse" cx="${c.x}" cy="${c.y + 24}" rx="86" ry="40" fill="none" stroke="#fff3b0" stroke-width="4"/>`;
+    o += `<g filter="url(#sh)"><path d="${isl}Z" transform="translate(0 16)" fill="${top}"/><path d="${isl}Z" transform="translate(0 16)" fill="url(#side)"/><path d="${isl}Z" fill="${top}"/></g>`;
+    o += `<path d="${isl}Z" fill="#ffffff" opacity=".18" transform="translate(${c.x} ${c.y + 18}) scale(.8 .6) translate(${-c.x} ${-c.y - 24})"/>`;
+    for (let k = 0; k < 5; k++) { const a = rnd() * Math.PI * 2, x = c.x + Math.cos(a) * 58, y = c.y + 24 + Math.sin(a) * 20; o += `<circle cx="${x.toFixed(0)}" cy="${y.toFixed(0)}" r="5" fill="#fff" opacity=".55"/><circle cx="${x.toFixed(0)}" cy="${y.toFixed(0)}" r="2" fill="${['#c8202f', '#3a7ad8', '#7a3aa8'][k % 3]}" opacity=".7"/>`; }
+    o += `<ellipse cx="${c.x}" cy="${c.y + 30}" rx="40" ry="10" fill="#000" opacity=".22" filter="url(#blur2)"/>`;
+    o += `<g transform="translate(${c.x - 46} ${c.y - 52}) scale(.92)">${ORGAN_ART[l.id]}</g>`;
+    if (!open) o += `<circle cx="${c.x}" cy="${c.y - 6}" r="20" fill="#2a1a24" stroke="#fff" stroke-width="3"/><g transform="translate(${c.x - 12} ${c.y - 18})">${LOCK_ICON}</g>`;
+    for (let k = 0; k < 3; k++) { const sx = c.x - 26 + k * 26, sy = c.y - 70 - (k === 1 ? 8 : 0); o += `<path transform="translate(${sx} ${sy})" d="M0-12 3.5-3.9 12-3.7 5.4 1.8 7.7 10 0 5.3-7.7 10-5.4 1.8-12-3.7-3.5-3.9z" fill="${k < st ? '#ffc61a' : '#5a4a54'}" stroke="${k < st ? '#7a4a00' : '#2a1a24'}" stroke-width="1.8"/>`; }
+    o += `<g transform="translate(${c.x} ${c.y + 82})"><rect x="-74" y="-17" width="148" height="40" rx="12" fill="#1a0c14" opacity=".88" stroke="${open ? '#ffd36b' : '#6a5a64'}" stroke-width="1.5"/>
+      <text y="1" text-anchor="middle" font-family="Unbounded, sans-serif" font-weight="700" font-size="14" fill="#fff4e0">${l.organ}</text>
+      <text y="16" text-anchor="middle" font-family="Golos Text, sans-serif" font-size="9.5" fill="#d8b8c4">${l.region}</text></g>`;
+    if (i === cur) o += `<g class="bob"><path d="M${c.x - 11} ${c.y - 104}h22l-11 14z" fill="#ffc61a" stroke="#7a4a00" stroke-width="2"/></g>`;
     o += `</g>`;
   });
   o += '</svg>';
